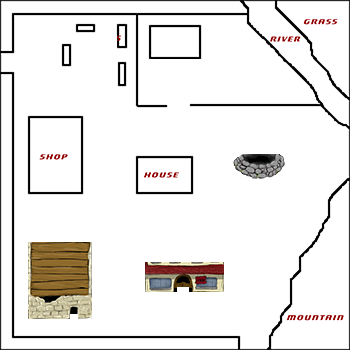
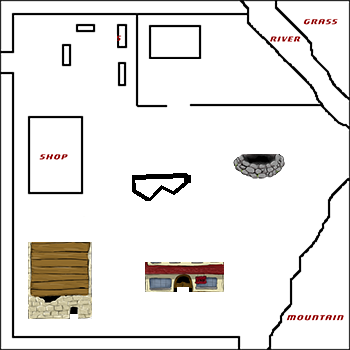
added the house to the village

Changed region(s): [[0.3714, 0.4286, 0.5714, 0.5714]]

diff --git a/SRPG/SRPG/Zones/Village/Village.cs b/SRPG/SRPG/Zones/Village/Village.cs
@@ -23,6 +23,7 @@ namespace SRPG.Zones.Village
             ImageLayers.Add(new ImageObject(Game, parent, "Zones/Village/Village/warehouse") { X = 155, Y = 1300, DrawOrder = 1918 });
             ImageLayers.Add(new ImageObject(Game, parent, "Zones/Village/Village/well") { X = 1400, Y = 863, DrawOrder = 977 });
             ImageLayers.Add(new ImageObject(Game, parent, "Zones/Village/Village/Posts1") { X = 70, Y = 1940, DrawOrder = 2100 });
+            ImageLayers.Add(new ImageObject(Game, parent, "Zones/Village/Village/house") { X = 754, Y = 701, DrawOrder = 1094 });
 
             Doors.Add(new Door { Location = new Rectangle(1442, 2057, 171, 37), Name = "coliseum", Orientation = Direction.Up, Zone = "coliseum/halls-north", ZoneDoor = "village" });
             
